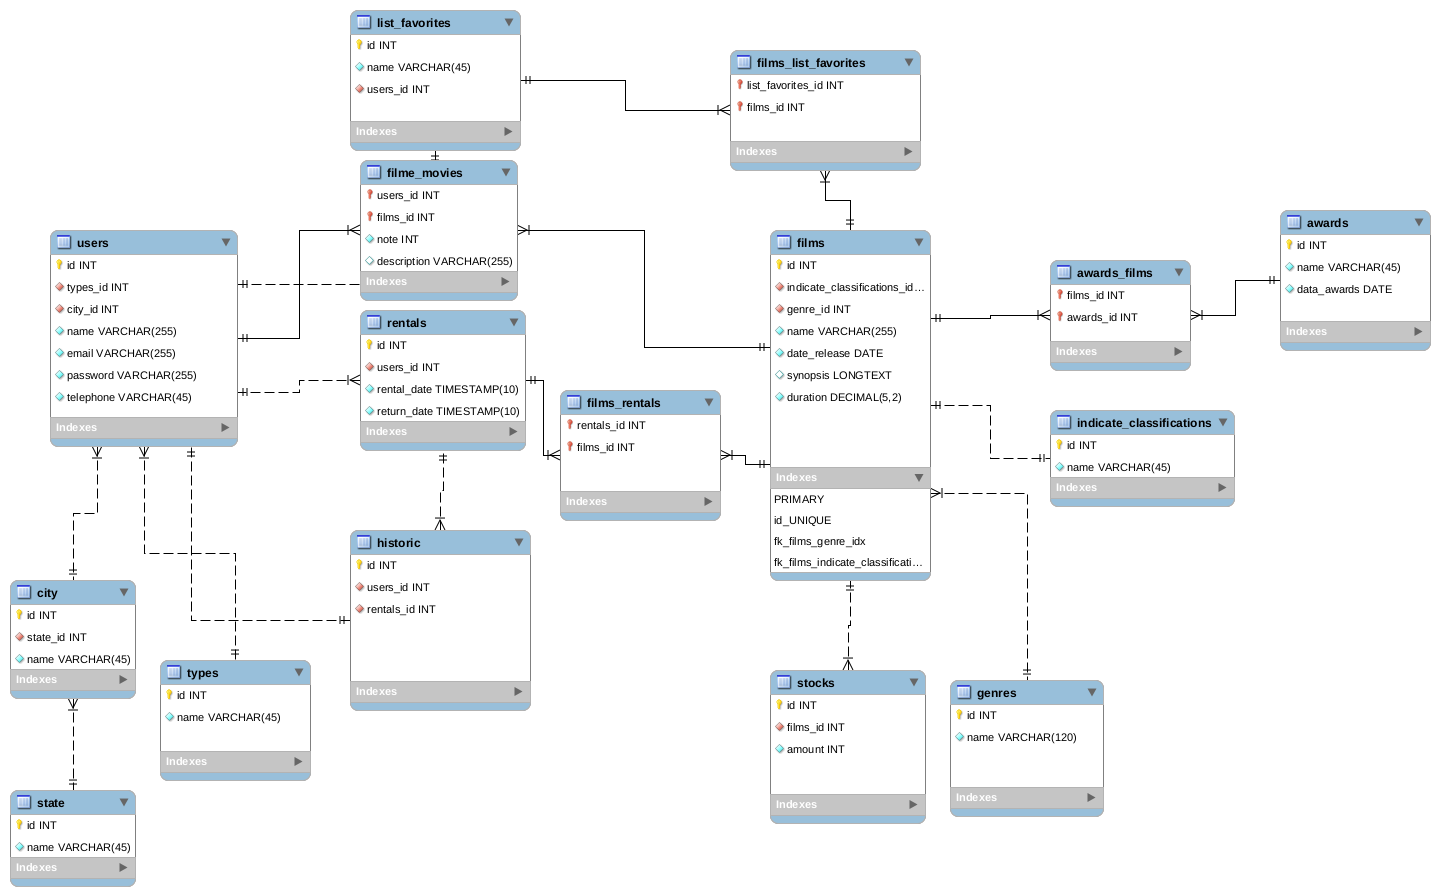
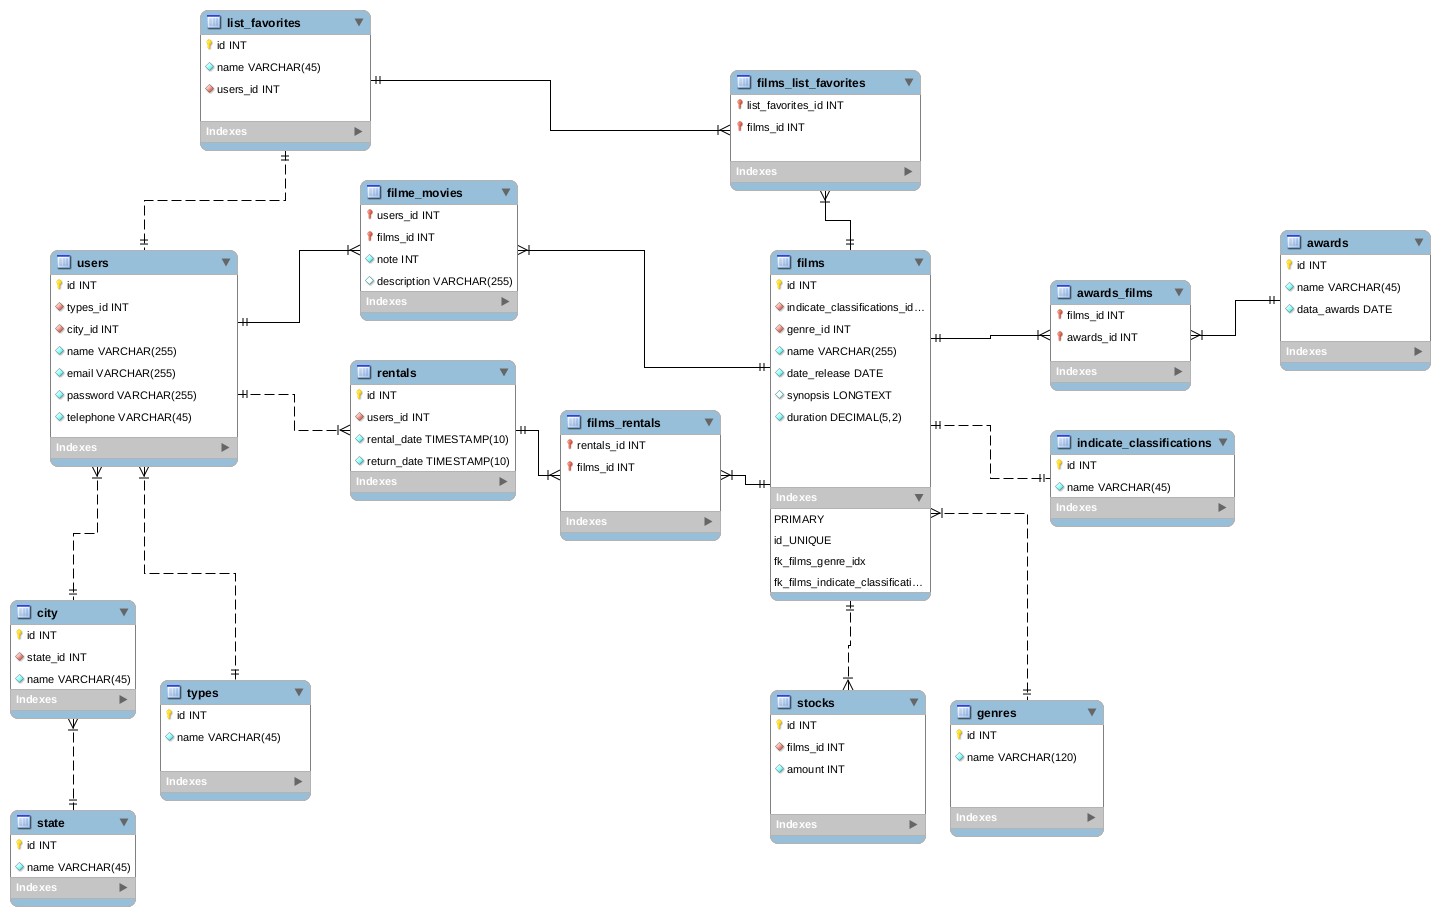
Add novas migrations de list_favorites e rentals

diff --git a/backend/src/database/migrations/1615939925808-list_favorites.js b/backend/src/database/migrations/1615939925808-list_favorites.js
@@ -1,0 +1,43 @@
+const { Table } = require("typeorm");
+
+module.exports = class listFavorites1615939925808 {
+  async up(queryRunner) {
+    await queryRunner.createTable(
+      new Table({
+        name: "list_favorites",
+        columns: [
+          {
+            name: "id",
+            type: "int",
+            isPrimary: true,
+            isGenerated: true,
+            generationStrategy: "increment",
+          },
+          {
+            name: "user_id",
+            type: "int",
+            isNullable: false,
+          },
+          {
+            name: "name",
+            type: "varchar",
+            isNullable: false,
+          },
+        ],
+        foreignKeys: [
+          {
+            columnNames: ["user_id"],
+            referencedTableName: "users",
+            referencedColumnNames: ["id"],
+            onDelete: "CASCADE",
+            onUpdate: "CASCADE",
+          },
+        ],
+      })
+    );
+  }
+
+  async down(queryRunner) {
+    await queryRunner.dropTable("list_favorites");
+  }
+};

diff --git a/backend/src/database/migrations/1615940551788-rentals.js b/backend/src/database/migrations/1615940551788-rentals.js
@@ -1,0 +1,41 @@
+const { Table } = require("typeorm");
+
+module.exports = class rentals1615940551788 {
+  async up(queryRunner) {
+    await queryRunner.createTable(
+      new Table({
+        name: "rentals",
+        columns: [
+          {
+            name: "id",
+            type: "int",
+            isPrimary: true,
+            isGenerated: true,
+            generationStrategy: "increment",
+          },
+          {
+            name: "user_id",
+            type: "int",
+            isNullable: false,
+          },
+          {
+            name: "rentals_date",
+            type: "timestamp with time zone",
+            default: "timezone ('utc' :: text, now ())",
+          },
+        ],
+        foreignKeys: [
+          {
+            columnNames: ["user_id"],
+            referencedTableName: "users",
+            referencedColumnNames: ["id"],
+            onDelete: "CASCADE",
+            onUpdate: "CASCADE",
+          },
+        ],
+      })
+    );
+  }
+
+  async down(queryRunner) {}
+};

diff --git a/backend/src/api/middlewares/auth.js b/backend/src/api/middlewares/auth.js
@@ -1,4 +1,3 @@
-const bcrypt = require("bcrypt");
 const jwt = require("jsonwebtoken");
 const config = require("config");
 const jwtKey = config.get("jwtSecret");
@@ -7,7 +6,8 @@ module.exports = function auth(req, res, next) {
   const token = req.header("Authorization");
   if (!token) {
     return res.status(401).json({
-      content: "Acess denied. No token provided",
+      status: "UNAUTHORIZED",
+      content: "Acesso negado, token não disponivel",
     });
   }
   try {
@@ -15,7 +15,9 @@ module.exports = function auth(req, res, next) {
     req.user = decoded;
     next();
   } catch (error) {
+    console.error("error =>", error);
     res.status(400).json({
+      status: "UNAUTHORIZED",
       content: "Invalid token",
     });
   }

diff --git a/backend/src/routes.js b/backend/src/routes.js
@@ -1,5 +1,5 @@
 const { Router } = require("express");
-
+const auth = require("./api/middlewares/auth");
 const router = Router();
 
 const { createStateController } = require("./api/useCase/State/CreateState");
@@ -27,6 +27,7 @@ router.post(
 
 router.get(
   "/states/:id",
+  auth,
   listCityByStateController.handle.bind(listCityByStateController)
 );
 
@@ -44,4 +45,5 @@ router.post(
   "/authenticate",
   authenticateUserController.handle.bind(authenticateUserController)
 );
+
 module.exports = { router };

diff --git a/backend/src/utils/apiError.js b/backend/src/utils/apiError.js
@@ -11,13 +11,14 @@ const apiError = (status, message) => {
       return { statusCodeError: status, message };
       break;
     case ResponseStatus.NOT_FOUND:
+      return { statusCodeError: status, message };
       break;
     case ResponseStatus.INTERNAL_SERVER_ERROR:
+      return { statusCodeError: status, message };
       break;
     case ResponseStatus.UNAUTHORIZED:
       return { statusCodeError: status, message };
       break;
-
     default:
       break;
   }

diff --git a/backend/src/utils/getUserAutenticated.js b/backend/src/utils/getUserAutenticated.js
@@ -1,11 +1,10 @@
 const jwt = require("jsonwebtoken");
 const config = require("config");
-
 const jwtKey = config.get("jwtSecret");
 
 module.exports = {
-  getUserAutenticated: (request) => {
-    const token = request.headers.authorization;
+  getUserAutenticated: (token) => {
+    // const token = request.headers.authorization;
     const { id, name, type } = jwt.verify(token, jwtKey);
     return { id, name, type };
   },

diff --git a/backend/src/api/controllers/State/ListCityByStateController.js b/backend/src/api/controllers/State/ListCityByStateController.js
@@ -6,6 +6,8 @@ class ListCityByStateController {
   async handle(request, response) {
     try {
       const { id } = request.params;
+      const user = getUserAutenticated(token);
+      console.log("user", user);
       console.info("id da request", id);
       const res = await this.listCityByStateUseCase.execute({
         id,

diff --git a/backend/src/api/middlewares/teste.js b/backend/src/api/middlewares/teste.js
@@ -3,7 +3,6 @@ const { getUserAutenticated } = require("../../utils/getUserAutenticated");
 module.exports = function checkCustomer(req, res, next) {
   const user = getUserAutenticated(req);
   if (user) {
-    console.log(user);
     return next();
   }
   return res.status(403).json({ content: "Invalid permission" });
